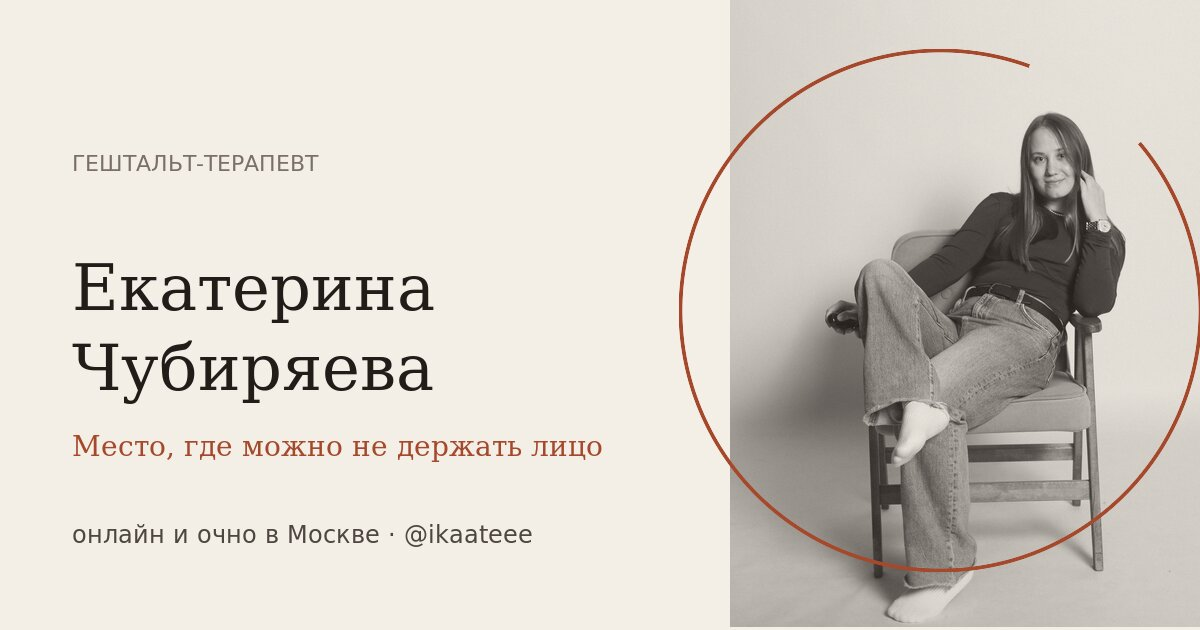
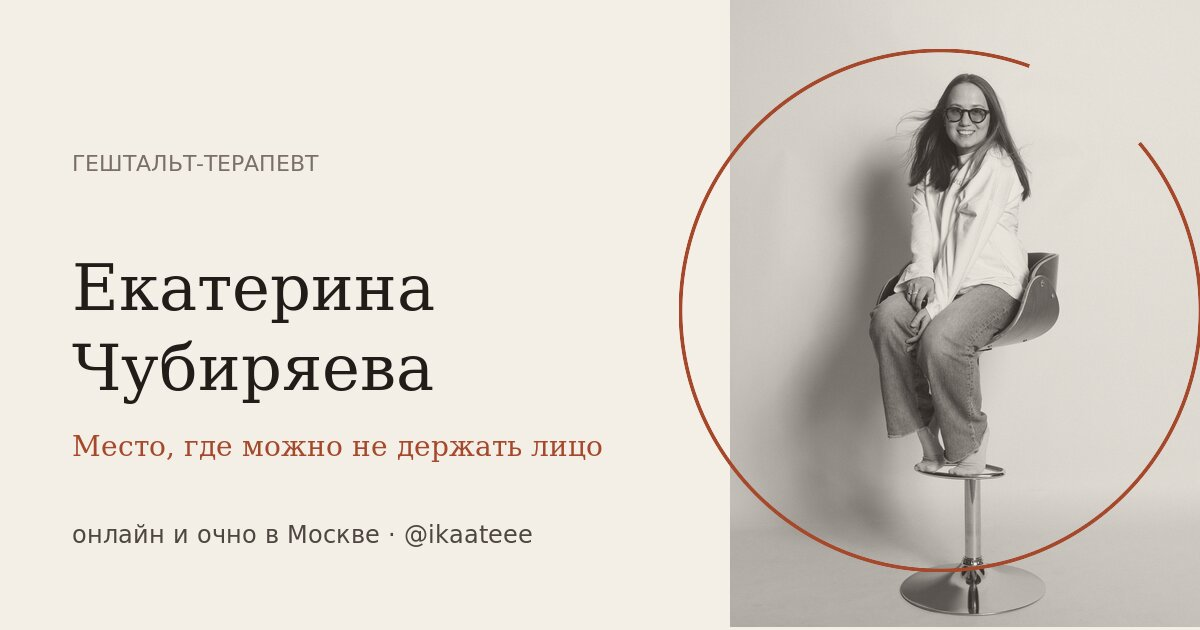
Swap hero photo, add athletes photo, rewrite rules note, Meta disclaimer
- Hero uses IMG_8730 (smiling on stool); OG image regenerated
- Session length shown as '1 час'
- 'Без белого халата' moved under 'Я — Катя.'
- Education fact adds bachelor of special psychology (defectologist)
- Athletes block gets IMG_8722
- Contract note reworded: therapy rules are sent, not signed; FAQ item removed
- Instagram/Threads marked with Meta disclaimer in footer

Claude-Session: https://claude.ai/code/session_0146wk3E6avDQtWMRtqKs2zw

Changed region(s): [[0.5858, 0.1206, 0.9558, 0.9952]]

diff --git a/index.html b/index.html
@@ -92,14 +92,14 @@
           </svg>
           <picture>
             <source type="image/webp" srcset="/images/kate-hero-640.webp 640w, /images/kate-hero-1000.webp 1000w, /images/kate-hero-1400.webp 1400w" sizes="(max-width: 860px) 90vw, 42vw" />
-            <img src="/images/kate-hero-1000.jpg" width="1000" height="1333" alt="Екатерина Чубиряева, гештальт-терапевт, спокойно сидит в кресле и слегка улыбается" fetchpriority="high" />
+            <img src="/images/kate-hero-1000.jpg" width="1000" height="1333" alt="Екатерина Чубиряева, гештальт-терапевт, улыбается, сидя на высоком стуле" fetchpriority="high" />
           </picture>
           <figcaption>здесь&nbsp;и&nbsp;сейчас</figcaption>
         </figure>
       </div>
 
       <ul class="hero__facts wrap reveal" aria-label="Коротко">
-        <li><b>60</b><span>минут длится сессия</span></li>
+        <li><b>1 час</b><span>длится сессия</span></li>
         <li><b>онлайн</b><span>из любой точки мира</span></li>
         <li><b>Москва</b><span>очные встречи в кабинете</span></li>
         <li><b>2000+</b><span>часов практики</span></li>
@@ -183,7 +183,7 @@
 
         <div class="about__text">
           <p class="eyebrow reveal">Обо мне</p>
-          <h2 class="h2 reveal" id="about-title">Я — Катя. <em>Без белого халата</em></h2>
+          <h2 class="h2 reveal" id="about-title">Я — Катя.<br /><em>Без белого халата</em></h2>
           <p class="about__intro reveal">
             Мне 30 лет, я замужем за айтишником, и 12 из этих лет я в психологии.
           </p>
@@ -205,7 +205,7 @@
             <h3>Вне кабинета</h3>
             <p>
               Я живой человек со своими страстями. Уже 25 лет (с перерывами)
-              танцую бальные танцы, обожаю спорт и сериалы. Веду <a href="https://www.threads.com/@ikaateee" target="_blank" rel="noopener">Threads</a>, где
+              танцую бальные танцы, обожаю спорт и сериалы. Веду <a href="https://www.threads.com/@ikaateee" target="_blank" rel="noopener">Threads</a>*, где
               разбираю кино, спорт и жизнь через грани психики. Сейчас готовлюсь
               вернуться на турниры — и уже болею за саму себя!
             </p>
@@ -214,7 +214,7 @@
           <dl class="about__facts">
             <div class="reveal"><dt>Практика</dt><dd>Более 2000 часов индивидуальной работы с клиентами</dd></div>
             <div class="reveal"><dt>Качество</dt><dd>Регулярная супервизия и личная терапия — более 7 лет</dd></div>
-            <div class="reveal"><dt>Образование</dt><dd>Гештальт-психотерапевт, магистр кризисной психологии</dd></div>
+            <div class="reveal"><dt>Образование</dt><dd>Гештальт-психотерапевт, магистр кризисной психологии, бакалавр специальной психологии (дефектолог)</dd></div>
             <div class="reveal"><dt>Этика</dt><dd>Конфиденциальность, бережность, уважение к вашему темпу и вашей личной истории</dd></div>
           </dl>
         </div>
@@ -222,7 +222,13 @@
 
       <div class="wrap">
         <aside class="athletes reveal" aria-labelledby="athletes-title">
-          <p class="athletes__tag">Отдельное место в моём сердце</p>
+          <div class="athletes__side">
+            <p class="athletes__tag">Отдельное место в моём сердце</p>
+            <picture class="athletes__photo">
+              <source type="image/webp" srcset="/images/kate-sport-640.webp 640w, /images/kate-sport-1000.webp 1000w" sizes="(max-width: 760px) 80vw, 30vw" />
+              <img src="/images/kate-sport-1000.jpg" width="1000" height="1250" loading="lazy" alt="Катя на стуле победно вскидывает руку и дурачится" />
+            </picture>
+          </div>
           <div>
             <h3 id="athletes-title">Работа со <em>спортсменами</em></h3>
             <p>
@@ -339,10 +345,11 @@
         <div class="contract reveal">
           <svg viewBox="0 0 32 32" aria-hidden="true"><path d="M9 4h10l6 6v18H9z M19 4v6h6 M13 16h8 M13 20h8 M13 24h5" /></svg>
           <p>
-            <b>Перед началом работы мы подписываем психотерапевтический контракт.</b>
-            Он фиксирует наши границы, правила переносов и оплаты. Хотите прочитать заранее —
+            <b>Перед началом работы я пришлю вам правила терапии.</b>
+            В них простыми словами описано, как устроен процесс психотерапии: встречи, переносы, оплата, наши границы —
+            чтобы вам было легче и понятнее. Если всё подходит — начинаем работать. Хотите прочитать заранее —
             напишите в <a href="https://t.me/ikaateee" target="_blank" rel="noopener">Telegram</a>
-            или <a href="https://vk.ru/ikaateee" target="_blank" rel="noopener">VK</a>: я вышлю документ, и мы обсудим детали.
+            или <a href="https://vk.ru/ikaateee" target="_blank" rel="noopener">VK</a>.
           </p>
         </div>
         <p class="format__note reveal">Время встреч подбираем индивидуально.</p>
@@ -382,10 +389,6 @@
             <p>Да. Для большинства запросов — тревога, депрессия, ПТСР и последствия травм, расстройства пищевого поведения, ОКР, панические атаки, зависимости (в ремиссии) и другие — онлайн-формат в виде видеозвонков по эффективности сопоставим с очной работой. Это подтверждают крупные международные исследования. Главное — обеспечить себе безопасное и тихое место на время сессии, где вас не отвлекут.</p>
           </details>
           <details class="reveal">
-            <summary>Есть ли договор?</summary>
-            <p>Да. Перед началом работы мы подписываем психотерапевтический контракт — он фиксирует наши границы, правила переносов и оплаты. Если хотите ознакомиться заранее, напишите мне в Telegram или VK: я вышлю документ, и мы обсудим все детали.</p>
-          </details>
-          <details class="reveal">
             <summary>Вы работаете со спортсменами?</summary>
             <p>Да, и очень это люблю. Я сама много лет в бальных танцах и знаю изнутри, что такое режим тренировок, выгорание и страх ошибки на старте.</p>
           </details>
@@ -406,8 +409,8 @@
           <ul class="contact__links reveal">
             <li><a href="https://t.me/ikaateee" target="_blank" rel="noopener"><span>Telegram</span><b>@ikaateee</b></a></li>
             <li><a href="https://vk.ru/ikaateee" target="_blank" rel="noopener"><span>VK</span><b>ikaateee</b></a></li>
-            <li><a href="https://www.instagram.com/ikaateee/" target="_blank" rel="noopener"><span>Instagram</span><b>@ikaateee</b></a></li>
-            <li><a href="https://www.threads.com/@ikaateee" target="_blank" rel="noopener"><span>Threads</span><b>@ikaateee</b></a></li>
+            <li><a href="https://www.instagram.com/ikaateee/" target="_blank" rel="noopener"><span>Instagram*</span><b>@ikaateee</b></a></li>
+            <li><a href="https://www.threads.com/@ikaateee" target="_blank" rel="noopener"><span>Threads*</span><b>@ikaateee</b></a></li>
           </ul>
         </div>
 
@@ -465,6 +468,7 @@
         <a href="tel:051">051</a> (с мобильного <a href="tel:+7495051">+7&nbsp;495&nbsp;051</a>, Москва, круглосуточно).
       </p>
       <p class="footer__copy">© <span data-year>2026</span></p>
+      <p class="footer__meta">* Instagram и Threads принадлежат компании Meta, деятельность которой признана экстремистской и запрещена на территории России.</p>
     </div>
   </footer>
 

diff --git a/src/style.css b/src/style.css
@@ -398,3 +398,12 @@ ol, ul { padding: 0; list-style: none; }
 
 .about__life a { color: var(--clay); text-underline-offset: 3px; }
 .about__life a:hover { color: var(--ink); }
+
+/* athletes photo */
+.athletes__side { display: flex; flex-direction: column; gap: 28px; position: relative; z-index: 1; }
+.athletes__photo { display: block; border-radius: 18px; overflow: hidden; aspect-ratio: 4 / 5; max-width: 340px; }
+.athletes__photo img { width: 100%; height: 100%; object-fit: cover; }
+@media (max-width: 760px) { .athletes__photo { max-width: 100%; } }
+
+/* Meta disclaimer */
+.footer__meta { grid-column: 1 / -1; font-size: 12px; color: rgba(243, 238, 230, 0.4); padding-top: 20px; border-top: 1px solid rgba(243, 238, 230, 0.1); }
